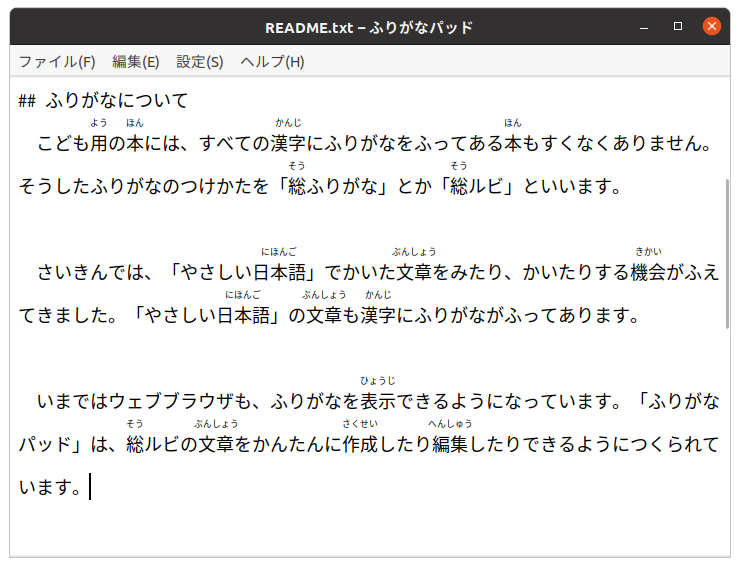
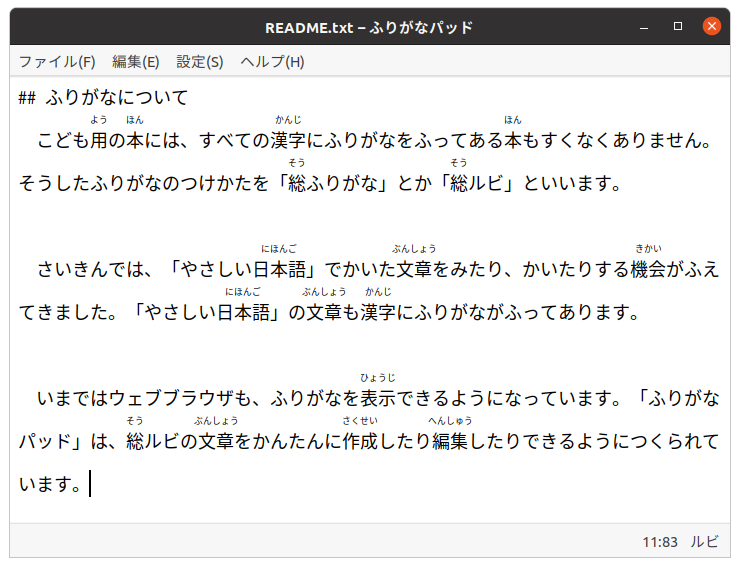
Update documents
docs/kids.png
docs/normal.png
docs/screenshot.mp4
docs/usage.html
docs/usage.md
screenshot.png

diff --git a/docs/usage.html b/docs/usage.html
@@ -70,37 +70,37 @@ thead tr th:first-child, tbody tr td:first-child {
 <tbody>
 <tr>
 <td>カーソルキー<br>[←], [↑], [↓], [→]</td>
-<td>カーソルをうごかします。[<ruby>Shift<rp>(</rp><rt>シフト</rt><rp>)</rp></ruby>]キーをおさえながらカーソルをうごかすと、テキストを<ruby>選択<rp>(</rp><rt>せんたく</rt><rp>)</rp></ruby>できます。</td>
+<td>&#x3000;カーソルをうごかします。<br>&#x3000;[<ruby>Shift<rp>(</rp><rt>シフト</rt><rp>)</rp></ruby>]キーをおさえながらカーソルキーをおすと、テキストを<ruby>選択<rp>(</rp><rt>せんたく</rt><rp>)</rp></ruby>できます。<br>&#x3000;[<ruby>Ctrl<rp>(</rp><rt>コントロール</rt><rp>)</rp></ruby>]キーをおさえながらカーソルキーをおすと、<ruby>単語<rp>(</rp><rt>たんご</rt><rp>)</rp></ruby><ruby>単位<rp>(</rp><rt>たんい</rt><rp>)</rp></ruby>でカーソルがうごきます。</td>
 </tr>
 <tr>
 <td>[<ruby>Backspace<rp>(</rp><rt>バックスペース</rt><rp>)</rp></ruby>]</td>
-<td><ruby>選択<rp>(</rp><rt>せんたく</rt><rp>)</rp></ruby>しているテキストがあるときは、その<ruby>部分<rp>(</rp><rt>ぶぶん</rt><rp>)</rp></ruby>を<ruby>削除<rp>(</rp><rt>さくじょ</rt><rp>)</rp></ruby>します。そうでなければ、カーソルの<ruby>直前<rp>(</rp><rt>ちょくぜん</rt><rp>)</rp></ruby>の<ruby>文字<rp>(</rp><rt>もじ</rt><rp>)</rp></ruby>を<ruby>削除<rp>(</rp><rt>さくじょ</rt><rp>)</rp></ruby>します。</td>
+<td>&#x3000;<ruby>選択<rp>(</rp><rt>せんたく</rt><rp>)</rp></ruby>しているテキストがあるときは、その<ruby>部分<rp>(</rp><rt>ぶぶん</rt><rp>)</rp></ruby>を<ruby>削除<rp>(</rp><rt>さくじょ</rt><rp>)</rp></ruby>します。そうでなければ、カーソルの<ruby>直前<rp>(</rp><rt>ちょくぜん</rt><rp>)</rp></ruby>の<ruby>文字<rp>(</rp><rt>もじ</rt><rp>)</rp></ruby>を<ruby>削除<rp>(</rp><rt>さくじょ</rt><rp>)</rp></ruby>します。</td>
 </tr>
 <tr>
 <td>[<ruby>Enter<rp>(</rp><rt>エンター</rt><rp>)</rp></ruby>]</td>
-<td>あたらしい<ruby>段落<rp>(</rp><rt>だんらく</rt><rp>)</rp></ruby>をつくります。</td>
+<td>&#x3000;あたらしい<ruby>段落<rp>(</rp><rt>だんらく</rt><rp>)</rp></ruby>をつくります。</td>
 </tr>
 <tr>
 <td>[<ruby>Home<rp>(</rp><rt>ホーム</rt><rp>)</rp></ruby>]</td>
-<td>カーソルを<ruby>段落<rp>(</rp><rt>だんらく</rt><rp>)</rp></ruby>のはじめに<ruby>移動<rp>(</rp><rt>いどう</rt><rp>)</rp></ruby>します。</td>
+<td>&#x3000;カーソルを<ruby>段落<rp>(</rp><rt>だんらく</rt><rp>)</rp></ruby>のはじめに<ruby>移動<rp>(</rp><rt>いどう</rt><rp>)</rp></ruby>します。<br>&#x3000;[<ruby>Ctrl<rp>(</rp><rt>コントロール</rt><rp>)</rp></ruby>]キーをおさえながら[<ruby>Home<rp>(</rp><rt>ホーム</rt><rp>)</rp></ruby>]キーをおすと、カーソルが<ruby>文頭<rp>(</rp><rt>ぶんとう</rt><rp>)</rp></ruby>に<ruby>移動<rp>(</rp><rt>いどう</rt><rp>)</rp></ruby>します。</td>
 </tr>
 <tr>
 <td>[<ruby>End<rp>(</rp><rt>エンド</rt><rp>)</rp></ruby>]</td>
-<td>カーソルを<ruby>段落<rp>(</rp><rt>だんらく</rt><rp>)</rp></ruby>のおわりに<ruby>移動<rp>(</rp><rt>いどう</rt><rp>)</rp></ruby>します。</td>
+<td>&#x3000;カーソルを<ruby>段落<rp>(</rp><rt>だんらく</rt><rp>)</rp></ruby>のおわりに<ruby>移動<rp>(</rp><rt>いどう</rt><rp>)</rp></ruby>します。<br>&#x3000;[<ruby>Ctrl<rp>(</rp><rt>コントロール</rt><rp>)</rp></ruby>]キーをおさえながら[<ruby>End<rp>(</rp><rt>エンド</rt><rp>)</rp></ruby>]キーをおすと、カーソルが<ruby>文末<rp>(</rp><rt>ぶんまつ</rt><rp>)</rp></ruby>に<ruby>移動<rp>(</rp><rt>いどう</rt><rp>)</rp></ruby>します。</td>
 </tr>
 <tr>
 <td>[<ruby>Page<rp>(</rp><rt>ページ</rt><rp>)</rp></ruby> <ruby>Up<rp>(</rp><rt>アップ</rt><rp>)</rp></ruby>]</td>
-<td><ruby>画面<rp>(</rp><rt>がめん</rt><rp>)</rp></ruby>を<ruby>上<rp>(</rp><rt>うえ</rt><rp>)</rp></ruby>にスクロールします。</td>
+<td>&#x3000;<ruby>画面<rp>(</rp><rt>がめん</rt><rp>)</rp></ruby>を<ruby>上<rp>(</rp><rt>うえ</rt><rp>)</rp></ruby>にスクロールします。</td>
 </tr>
 <tr>
 <td>[<ruby>Page<rp>(</rp><rt>ページ</rt><rp>)</rp></ruby> <ruby>Down<rp>(</rp><rt>ダウン</rt><rp>)</rp></ruby>]</td>
-<td><ruby>画面<rp>(</rp><rt>がめん</rt><rp>)</rp></ruby>を<ruby>下<rp>(</rp><rt>した</rt><rp>)</rp></ruby>にスクロールします。</td>
+<td>&#x3000;<ruby>画面<rp>(</rp><rt>がめん</rt><rp>)</rp></ruby>を<ruby>下<rp>(</rp><rt>した</rt><rp>)</rp></ruby>にスクロールします。</td>
 </tr>
 </tbody>
 </table>
 <h2><ruby>文章<rp>(</rp><rt>ぶんしょう</rt><rp>)</rp></ruby>の<ruby>保存<rp>(</rp><rt>ほぞん</rt><rp>)</rp></ruby>のしかた</h2>
 <p>&#x3000;かいた<ruby>文章<rp>(</rp><rt>ぶんしょう</rt><rp>)</rp></ruby>は、ファイルに<ruby>保存<rp>(</rp><rt>ほぞん</rt><rp>)</rp></ruby>しておかないと、なくなってしまいます。<ruby>文章<rp>(</rp><rt>ぶんしょう</rt><rp>)</rp></ruby>を<ruby>保存<rp>(</rp><rt>ほぞん</rt><rp>)</rp></ruby>するときは、まず、[ファイル]メニューをクリックします。そうすると、プルダウン メニューがひらきます。そのなかから[<ruby>保存<rp>(</rp><rt>ほぞん</rt><rp>)</rp></ruby>]をクリックすると、<ruby>文章<rp>(</rp><rt>ぶんしょう</rt><rp>)</rp></ruby>を<ruby>保存<rp>(</rp><rt>ほぞん</rt><rp>)</rp></ruby>できます。</p>
-<p>&#x3000;おもなメニュー<ruby>項目<rp>(</rp><rt>こうもく</rt><rp>)</rp></ruby>はキーボード ショートカットをつかって<ruby>実行<rp>(</rp><rt>じっこう</rt><rp>)</rp></ruby>することもできます。たとえば、[<ruby>保存<rp>(</rp><rt>ほぞん</rt><rp>)</rp></ruby>]は、[Ctrl]キーをおさえながら、[S]をおすと<ruby>実行<rp>(</rp><rt>じっこう</rt><rp>)</rp></ruby>できます。Sは<ruby>英語<rp>(</rp><rt>えいご</rt><rp>)</rp></ruby>の"<ruby>Save<rp>(</rp><rt>セーブ</rt><rp>)</rp></ruby>"の<ruby>頭<rp>(</rp><rt>かしら</rt><rp>)</rp></ruby><ruby>文字<rp>(</rp><rt>もじ</rt><rp>)</rp></ruby>からきています。キーボード ショートカットはプルダウン メニューのなかにかかれています。</p>
+<p>&#x3000;おもなメニュー<ruby>項目<rp>(</rp><rt>こうもく</rt><rp>)</rp></ruby>はキーボード ショートカットをつかって<ruby>実行<rp>(</rp><rt>じっこう</rt><rp>)</rp></ruby>することもできます。たとえば、[<ruby>保存<rp>(</rp><rt>ほぞん</rt><rp>)</rp></ruby>]は、[<ruby>Ctrl<rp>(</rp><rt>コントロール</rt><rp>)</rp></ruby>]キーをおさえながら、[S]をおすと<ruby>実行<rp>(</rp><rt>じっこう</rt><rp>)</rp></ruby>できます。Sは<ruby>英語<rp>(</rp><rt>えいご</rt><rp>)</rp></ruby>の"<ruby>Save<rp>(</rp><rt>セーブ</rt><rp>)</rp></ruby>"の<ruby>頭<rp>(</rp><rt>かしら</rt><rp>)</rp></ruby><ruby>文字<rp>(</rp><rt>もじ</rt><rp>)</rp></ruby>からきています。キーボード ショートカットはプルダウン メニューのなかにかかれています。</p>
 <h2>ファイル メニュー</h2>
 <table>
 <thead>
@@ -112,27 +112,27 @@ thead tr th:first-child, tbody tr td:first-child {
 <tbody>
 <tr>
 <td><ruby>新<rp>(</rp><rt>あたら</rt><rp>)</rp></ruby>しいウィンドウ<br><b>[Ctrl]+[N]</b></td>
-<td>あたらしい<ruby>文章<rp>(</rp><rt>ぶんしょう</rt><rp>)</rp></ruby>をかくためのウィンドウをひらきます。</td>
+<td>&#x3000;あたらしい<ruby>文章<rp>(</rp><rt>ぶんしょう</rt><rp>)</rp></ruby>をかくためのウィンドウをひらきます。</td>
 </tr>
 <tr>
 <td><ruby>開<rp>(</rp><rt>ひら</rt><rp>)</rp></ruby>く...<br><b>[Ctrl]+[O]</b></td>
-<td>ファイルをひらきます。</td>
+<td>&#x3000;ファイルをひらきます。</td>
 </tr>
 <tr>
 <td><ruby>保存<rp>(</rp><rt>ほぞん</rt><rp>)</rp></ruby><br><b>[Ctrl]+[S]</b></td>
-<td><ruby>文章<rp>(</rp><rt>ぶんしょう</rt><rp>)</rp></ruby>を<ruby>保存<rp>(</rp><rt>ほぞん</rt><rp>)</rp></ruby>します。あたらしい<ruby>文章<rp>(</rp><rt>ぶんしょう</rt><rp>)</rp></ruby>を<ruby>保存<rp>(</rp><rt>ほぞん</rt><rp>)</rp></ruby>するときは、ファイル<ruby>名<rp>(</rp><rt>めい</rt><rp>)</rp></ruby>を<ruby>指定<rp>(</rp><rt>してい</rt><rp>)</rp></ruby>してから<ruby>保存<rp>(</rp><rt>ほぞん</rt><rp>)</rp></ruby>します。</td>
+<td>&#x3000;<ruby>文章<rp>(</rp><rt>ぶんしょう</rt><rp>)</rp></ruby>を<ruby>保存<rp>(</rp><rt>ほぞん</rt><rp>)</rp></ruby>します。あたらしい<ruby>文章<rp>(</rp><rt>ぶんしょう</rt><rp>)</rp></ruby>を<ruby>保存<rp>(</rp><rt>ほぞん</rt><rp>)</rp></ruby>するときは、ファイル<ruby>名<rp>(</rp><rt>めい</rt><rp>)</rp></ruby>を<ruby>指定<rp>(</rp><rt>してい</rt><rp>)</rp></ruby>してから<ruby>保存<rp>(</rp><rt>ほぞん</rt><rp>)</rp></ruby>します。</td>
 </tr>
 <tr>
 <td><ruby>名前<rp>(</rp><rt>なまえ</rt><rp>)</rp></ruby>をつけて<ruby>保存<rp>(</rp><rt>ほぞん</rt><rp>)</rp></ruby>...</td>
-<td><ruby>文章<rp>(</rp><rt>ぶんしょう</rt><rp>)</rp></ruby>をべつのファイルに<ruby>保存<rp>(</rp><rt>ほぞん</rt><rp>)</rp></ruby>します。</td>
+<td>&#x3000;<ruby>文章<rp>(</rp><rt>ぶんしょう</rt><rp>)</rp></ruby>をべつのファイルに<ruby>保存<rp>(</rp><rt>ほぞん</rt><rp>)</rp></ruby>します。</td>
 </tr>
 <tr>
 <td><ruby>閉<rp>(</rp><rt>と</rt><rp>)</rp></ruby>じる<br><b>[Ctrl]+[W]</b></td>
-<td>ファイルをとじます。<ruby>文章<rp>(</rp><rt>ぶんしょう</rt><rp>)</rp></ruby>を<ruby>変更<rp>(</rp><rt>へんこう</rt><rp>)</rp></ruby>していたときは、ファイルを<ruby>保存<rp>(</rp><rt>ほぞん</rt><rp>)</rp></ruby>しなくてもだいじょうぶか<ruby>確認<rp>(</rp><rt>かくにん</rt><rp>)</rp></ruby>をもとめられます。</td>
+<td>&#x3000;ファイルをとじます。<ruby>文章<rp>(</rp><rt>ぶんしょう</rt><rp>)</rp></ruby>を<ruby>変更<rp>(</rp><rt>へんこう</rt><rp>)</rp></ruby>していたときは、ファイルを<ruby>保存<rp>(</rp><rt>ほぞん</rt><rp>)</rp></ruby>しなくてもだいじょうぶか<ruby>確認<rp>(</rp><rt>かくにん</rt><rp>)</rp></ruby>をもとめられます。</td>
 </tr>
 <tr>
 <td>すべて<ruby>閉<rp>(</rp><rt>と</rt><rp>)</rp></ruby>じる</td>
-<td>ファイルをすべてとじます。<ruby>変更<rp>(</rp><rt>へんこう</rt><rp>)</rp></ruby>されている<ruby>文章<rp>(</rp><rt>ぶんしょう</rt><rp>)</rp></ruby>があれば、それぞれ<ruby>保存<rp>(</rp><rt>ほぞん</rt><rp>)</rp></ruby>しなくてもだいじょうぶか<ruby>確認<rp>(</rp><rt>かくにん</rt><rp>)</rp></ruby>をもとめられます。</td>
+<td>&#x3000;ファイルをすべてとじます。<ruby>変更<rp>(</rp><rt>へんこう</rt><rp>)</rp></ruby>されている<ruby>文章<rp>(</rp><rt>ぶんしょう</rt><rp>)</rp></ruby>があれば、それぞれ<ruby>保存<rp>(</rp><rt>ほぞん</rt><rp>)</rp></ruby>しなくてもだいじょうぶか<ruby>確認<rp>(</rp><rt>かくにん</rt><rp>)</rp></ruby>をもとめられます。</td>
 </tr>
 </tbody>
 </table>
@@ -149,27 +149,27 @@ thead tr th:first-child, tbody tr td:first-child {
 <tbody>
 <tr>
 <td><ruby>元<rp>(</rp><rt>もと</rt><rp>)</rp></ruby>に<ruby>戻<rp>(</rp><rt>もど</rt><rp>)</rp></ruby>す<br><b>[Ctrl]+[Z]</b></td>
-<td>まちがえた<ruby>操作<rp>(</rp><rt>そうさ</rt><rp>)</rp></ruby>をとりけして、もとにもどします。</td>
+<td>&#x3000;まちがえた<ruby>操作<rp>(</rp><rt>そうさ</rt><rp>)</rp></ruby>をとりけして、もとにもどします。</td>
 </tr>
 <tr>
 <td>やり<ruby>直<rp>(</rp><rt>なお</rt><rp>)</rp></ruby>す<br><b>[Ctrl]+[Shift]+[Z]</b></td>
-<td>いちどとりけした<ruby>操作<rp>(</rp><rt>そうさ</rt><rp>)</rp></ruby>をやりなおします。</td>
+<td>&#x3000;いちどとりけした<ruby>操作<rp>(</rp><rt>そうさ</rt><rp>)</rp></ruby>をやりなおします。</td>
 </tr>
 <tr>
 <td><ruby>切<rp>(</rp><rt>き</rt><rp>)</rp></ruby>り<ruby>取<rp>(</rp><rt>と</rt><rp>)</rp></ruby>り<br><b>[Ctrl]+[X]</b></td>
-<td><ruby>選択<rp>(</rp><rt>せんたく</rt><rp>)</rp></ruby>したテキストをきりとって、クリップボードにいれます。</td>
+<td>&#x3000;<ruby>選択<rp>(</rp><rt>せんたく</rt><rp>)</rp></ruby>したテキストをきりとって、クリップボードにいれます。</td>
 </tr>
 <tr>
 <td>コピー<br><b>[Ctrl]+[C]</b></td>
-<td><ruby>選択<rp>(</rp><rt>せんたく</rt><rp>)</rp></ruby>したテキストをコピーして、クリップボードにいれます。</td>
+<td>&#x3000;<ruby>選択<rp>(</rp><rt>せんたく</rt><rp>)</rp></ruby>したテキストをコピーして、クリップボードにいれます。</td>
 </tr>
 <tr>
 <td><ruby>貼<rp>(</rp><rt>は</rt><rp>)</rp></ruby>り<ruby>付<rp>(</rp><rt>つ</rt><rp>)</rp></ruby>け<br><b>[Ctrl]+[V]</b></td>
-<td>クリップボードにいれたテキストを<ruby>本文<rp>(</rp><rt>ほんぶん</rt><rp>)</rp></ruby>にはりつけます。</td>
+<td>&#x3000;クリップボードにいれたテキストを<ruby>本文<rp>(</rp><rt>ほんぶん</rt><rp>)</rp></ruby>にはりつけます。</td>
 </tr>
 <tr>
 <td>すべて<ruby>選択<rp>(</rp><rt>せんたく</rt><rp>)</rp></ruby><br><b>[Ctrl]+[A]</b></td>
-<td><ruby>文章<rp>(</rp><rt>ぶんしょう</rt><rp>)</rp></ruby><ruby>全体<rp>(</rp><rt>ぜんたい</rt><rp>)</rp></ruby>を<ruby>選択<rp>(</rp><rt>せんたく</rt><rp>)</rp></ruby>します。</td>
+<td>&#x3000;<ruby>文章<rp>(</rp><rt>ぶんしょう</rt><rp>)</rp></ruby><ruby>全体<rp>(</rp><rt>ぜんたい</rt><rp>)</rp></ruby>を<ruby>選択<rp>(</rp><rt>せんたく</rt><rp>)</rp></ruby>します。</td>
 </tr>
 <tr>
 <td><ruby>検索<rp>(</rp><rt>けんさく</rt><rp>)</rp></ruby>...<br><b>[Ctrl]+[F]</b></td>
@@ -210,6 +210,10 @@ thead tr th:first-child, tbody tr td:first-child {
 <td><ruby>長<rp>(</rp><rt>なが</rt><rp>)</rp></ruby>い<ruby>文<rp>(</rp><rt>ぶん</rt><rp>)</rp></ruby>をめだたせる</td>
 <td>&#x3000;チェックをつけておくと、ながい<ruby>文<rp>(</rp><rt>ぶん</rt><rp>)</rp></ruby>を<ruby>色<rp>(</rp><rt>いろ</rt><rp>)</rp></ruby>づけして<ruby>表示<rp>(</rp><rt>ひょうじ</rt><rp>)</rp></ruby>します。一<ruby>文<rp>(</rp><rt>ぶん</rt><rp>)</rp></ruby>のながさが50<ruby>字<rp>(</rp><rt>じ</rt><rp>)</rp></ruby>をこえると、<ruby>文<rp>(</rp><rt>ぶん</rt><rp>)</rp></ruby>の<ruby>背景<rp>(</rp><rt>はいけい</rt><rp>)</rp></ruby>が<ruby>黄<rp>(</rp><rt>き</rt><rp>)</rp></ruby><ruby>色<rp>(</rp><rt>いろ</rt><rp>)</rp></ruby>になります。さらに、60<ruby>字<rp>(</rp><rt>じ</rt><rp>)</rp></ruby>をこえると、<ruby>文<rp>(</rp><rt>ぶん</rt><rp>)</rp></ruby>の<ruby>背景<rp>(</rp><rt>はいけい</rt><rp>)</rp></ruby>が<ruby>赤色<rp>(</rp><rt> あかいろ</rt><rp>)</rp></ruby>になります。<br>&#x3000;ながい<ruby>文<rp>(</rp><rt>ぶん</rt><rp>)</rp></ruby>はみじかくきって、かきなおすと、よみやすくなります。<ruby>背景<rp>(</rp><rt>はいけい</rt><rp>)</rp></ruby>が<ruby>赤色<rp>(</rp><rt> あかいろ</rt><rp>)</rp></ruby>になっている<ruby>文<rp>(</rp><rt>ぶん</rt><rp>)</rp></ruby>は、ふたつの<ruby>文<rp>(</rp><rt>ぶん</rt><rp>)</rp></ruby>にわけたりできないか、かんがえてみてください。</td>
 </tr>
+<tr>
+<td>ステータスバー</td>
+<td>&#x3000;チェックをつけておくと、ウィンドウのしたの<ruby>部分<rp>(</rp><rt>ぶぶん</rt><rp>)</rp></ruby>にステータスバーを<ruby>表示<rp>(</rp><rt>ひょうじ</rt><rp>)</rp></ruby>します。</td>
+</tr>
 </tbody>
 </table>
 <h2>ヘルプ メニュー</h2>
@@ -223,11 +227,11 @@ thead tr th:first-child, tbody tr td:first-child {
 <tbody>
 <tr>
 <td>ヘルプ<br><b>[F1]</b></td>
-<td>ウェブブラウザーで「ふりがなパッド」の<ruby>手<rp>(</rp><rt>て</rt><rp>)</rp></ruby>びきのページを<ruby>表示<rp>(</rp><rt>ひょうじ</rt><rp>)</rp></ruby>します。</td>
+<td>&#x3000;ウェブブラウザーで「ふりがなパッド」の<ruby>手<rp>(</rp><rt>て</rt><rp>)</rp></ruby>びきのページを<ruby>表示<rp>(</rp><rt>ひょうじ</rt><rp>)</rp></ruby>します。</td>
 </tr>
 <tr>
 <td>ふりがなパッドについて</td>
-<td>「ふりがなパッド」のバージョン<ruby>情報<rp>(</rp><rt>じょうほう</rt><rp>)</rp></ruby>などを<ruby>表示<rp>(</rp><rt>ひょうじ</rt><rp>)</rp></ruby>します。</td>
+<td>&#x3000;「ふりがなパッド」のバージョン<ruby>情報<rp>(</rp><rt>じょうほう</rt><rp>)</rp></ruby>などを<ruby>表示<rp>(</rp><rt>ひょうじ</rt><rp>)</rp></ruby>します。</td>
 </tr>
 </tbody>
 </table>

diff --git a/docs/usage.md b/docs/usage.md
@@ -27,13 +27,13 @@ $ furiganapad [ファイル名...]
 
 キー | 内容ないよう
 ---|---
-カーソルキー<br>[←], [↑], [↓], [→] | カーソルをうごかします。[Shiftシフト]キーをおさえながらカーソルをうごかすと、テキストを選択せんたくできます。
-[Backspaceバックスペース] | 選択せんたくしているテキストがあるときは、その部分ぶぶんを削除さくじょします。そうでなければ、カーソルの直前ちょくぜんの文字もじを削除さくじょします。
-[Enterエンター] | あたらしい段落だんらくをつくります。
-[Homeホーム] | カーソルを段落だんらくのはじめに移動いどうします。
-[Endエンド] | カーソルを段落だんらくのおわりに移動いどうします。
-[Pageページ Upアップ] | 画面がめんを上うえにスクロールします。
-[Pageページ Downダウン] | 画面がめんを下したにスクロールします。
+カーソルキー<br>[←], [↑], [↓], [→] | 　カーソルをうごかします。<br>　[Shiftシフト]キーをおさえながらカーソルキーをおすと、テキストを選択せんたくできます。<br>　[Ctrlコントロール]キーをおさえながらカーソルキーをおすと、単語たんご単位たんいでカーソルがうごきます。
+[Backspaceバックスペース] | 　選択せんたくしているテキストがあるときは、その部分ぶぶんを削除さくじょします。そうでなければ、カーソルの直前ちょくぜんの文字もじを削除さくじょします。
+[Enterエンター] | 　あたらしい段落だんらくをつくります。
+[Homeホーム] | 　カーソルを段落だんらくのはじめに移動いどうします。<br>　[Ctrlコントロール]キーをおさえながら[Homeホーム]キーをおすと、カーソルが文頭ぶんとうに移動いどうします。
+[Endエンド] | 　カーソルを段落だんらくのおわりに移動いどうします。<br>　[Ctrlコントロール]キーをおさえながら[Endエンド]キーをおすと、カーソルが文末ぶんまつに移動いどうします。
+[Pageページ Upアップ] | 　画面がめんを上うえにスクロールします。
+[Pageページ Downダウン] | 　画面がめんを下したにスクロールします。
 
 ## 文章ぶんしょうの保存ほぞんのしかた
 
@@ -41,19 +41,19 @@ $ furiganapad [ファイル名...]
 そうすると、プルダウン メニューがひらきます。
 そのなかから[保存ほぞん]をクリックすると、文章ぶんしょうを保存ほぞんできます。
 　おもなメニュー項目こうもくはキーボード ショートカットをつかって実行じっこうすることもできます。
-たとえば、[保存ほぞん]は、[Ctrl]キーをおさえながら、[S]をおすと実行じっこうできます。Sは英語えいごの"Saveセーブ"の頭かしら文字もじからきています。
+たとえば、[保存ほぞん]は、[Ctrlコントロール]キーをおさえながら、[S]をおすと実行じっこうできます。Sは英語えいごの"Saveセーブ"の頭かしら文字もじからきています。
 キーボード ショートカットはプルダウン メニューのなかにかかれています。
 
 ## ファイル メニュー
 
 メニュー項目こうもく | 内容ないよう
 ---|---
-新あたらしいウィンドウ<br><b>[Ctrl]+[N]</b> | あたらしい文章ぶんしょうをかくためのウィンドウをひらきます。
-開ひらく...<br><b>[Ctrl]+[O]</b> | ファイルをひらきます。
-保存ほぞん<br><b>[Ctrl]+[S]</b> | 文章ぶんしょうを保存ほぞんします。あたらしい文章ぶんしょうを保存ほぞんするときは、ファイル名めいを指定していしてから保存ほぞんします。
-名前なまえをつけて保存ほぞん... | 文章ぶんしょうをべつのファイルに保存ほぞんします。
-閉とじる<br><b>[Ctrl]+[W]</b> | ファイルをとじます。文章ぶんしょうを変更へんこうしていたときは、ファイルを保存ほぞんしなくてもだいじょうぶか確認かくにんをもとめられます。
-すべて閉とじる | ファイルをすべてとじます。変更へんこうされている文章ぶんしょうがあれば、それぞれ保存ほぞんしなくてもだいじょうぶか確認かくにんをもとめられます。
+新あたらしいウィンドウ<br><b>[Ctrl]+[N]</b> | 　あたらしい文章ぶんしょうをかくためのウィンドウをひらきます。
+開ひらく...<br><b>[Ctrl]+[O]</b> | 　ファイルをひらきます。
+保存ほぞん<br><b>[Ctrl]+[S]</b> | 　文章ぶんしょうを保存ほぞんします。あたらしい文章ぶんしょうを保存ほぞんするときは、ファイル名めいを指定していしてから保存ほぞんします。
+名前なまえをつけて保存ほぞん... | 　文章ぶんしょうをべつのファイルに保存ほぞんします。
+閉とじる<br><b>[Ctrl]+[W]</b> | 　ファイルをとじます。文章ぶんしょうを変更へんこうしていたときは、ファイルを保存ほぞんしなくてもだいじょうぶか確認かくにんをもとめられます。
+すべて閉とじる | 　ファイルをすべてとじます。変更へんこうされている文章ぶんしょうがあれば、それぞれ保存ほぞんしなくてもだいじょうぶか確認かくにんをもとめられます。
 
 ## 編集へんしゅうメニュー
 
@@ -63,12 +63,12 @@ $ furiganapad [ファイル名...]
 
 メニュー項目こうもく | 内容ないよう
 ---|---
-元もとに戻もどす<br><b>[Ctrl]+[Z]</b> | まちがえた操作そうさをとりけして、もとにもどします。
-やり直なおす<br><b>[Ctrl]+[Shift]+[Z]</b> | いちどとりけした操作そうさをやりなおします。
-切きり取とり<br><b>[Ctrl]+[X]</b> | 選択せんたくしたテキストをきりとって、クリップボードにいれます。
-コピー<br><b>[Ctrl]+[C]</b> | 選択せんたくしたテキストをコピーして、クリップボードにいれます。
-貼はり付つけ<br><b>[Ctrl]+[V]</b> | クリップボードにいれたテキストを本文ほんぶんにはりつけます。
-すべて選択せんたく<br><b>[Ctrl]+[A]</b> | 文章ぶんしょう全体ぜんたいを選択せんたくします。
+元もとに戻もどす<br><b>[Ctrl]+[Z]</b> | 　まちがえた操作そうさをとりけして、もとにもどします。
+やり直なおす<br><b>[Ctrl]+[Shift]+[Z]</b> | 　いちどとりけした操作そうさをやりなおします。
+切きり取とり<br><b>[Ctrl]+[X]</b> | 　選択せんたくしたテキストをきりとって、クリップボードにいれます。
+コピー<br><b>[Ctrl]+[C]</b> | 　選択せんたくしたテキストをコピーして、クリップボードにいれます。
+貼はり付つけ<br><b>[Ctrl]+[V]</b> | 　クリップボードにいれたテキストを本文ほんぶんにはりつけます。
+すべて選択せんたく<br><b>[Ctrl]+[A]</b> | 　文章ぶんしょう全体ぜんたいを選択せんたくします。
 検索けんさく...<br><b>[Ctrl]+[F]</b> | 　ウィンドウのしたがわにテキストボックスが表示ひょうじされます。テキストボックスに字句じくを入力にゅうりょくして、[Enterエンター]キーをおすと、文章ぶんしょうのなかからその字句じくをさがします。<br>　[Escエスケープ]キーをおすと、テキストボックスをとじられます。
 置換ちかん...<br><b>[Ctrl]+[H]</b> | 　ウィンドウのしたがわに、ふたつテキストボックスが表示ひょうじされます。うえのテキストボックスには、さがしたい字句じくを入力にゅうりょくします。したのテキストボックスには、おきかえる字句じくを入力にゅうりょくします。[Enterエンター]キーをおすと、さがしたい字句じくがあれば、その字句じくが選択せんたくされます。そこで、もういちど[Enterエンター]キーをおすと、字句じくをおきかえられます。<br>　[Escエスケープ]キーをおすと、テキストボックスをとじられます。
 ルビをふる...<br><b>[Ctrl]+[B]</b> | 　まずルビをふりたい字句じくを選択せんたくしておきます。このコマンドを実行じっこうすると、ウィンドウのしたがわにテキストボックスが表示ひょうじされます。ルビを入力にゅうりょくして、[Enterエンター]キーをおすと、選択せんたくしたテキストにルビがふられます。<br>　[Escエスケープ]キーをおすと、テキストボックスをとじられます。
@@ -81,11 +81,12 @@ $ furiganapad [ファイル名...]
 フォントを変かえる | 　文章ぶんしょうの表示ひょうじにつかうフォントをえらびます。
 ルビをふる<br><b>[Ctrl]+[R]</b> | 　チェックをつけておくと、変換へんかんした漢字かんじに自動的じどうてきにルビがふられます。<br>※ 「ひらがなIME」を使用しようしているときにだけ有効ゆうこうな機能きのうです。
 長ながい文ぶんをめだたせる | 　チェックをつけておくと、ながい文ぶんを色いろづけして表示ひょうじします。一文ぶんのながさが50字じをこえると、文ぶんの背景はいけいが黄き色いろになります。さらに、60字じをこえると、文ぶんの背景はいけいが赤色 あかいろになります。<br>　ながい文ぶんはみじかくきって、かきなおすと、よみやすくなります。背景はいけいが赤色 あかいろになっている文ぶんは、ふたつの文ぶんにわけたりできないか、かんがえてみてください。
+ステータスバー | 　チェックをつけておくと、ウィンドウのしたの部分ぶぶんにステータスバーを表示ひょうじします。
 
 ## ヘルプ メニュー
 
 メニュー項目こうもく | 内容ないよう
 ---|---
-ヘルプ<br><b>[F1]</b> | ウェブブラウザーで「ふりがなパッド」の手てびきのページを表示ひょうじします。
-ふりがなパッドについて | 「ふりがなパッド」のバージョン情報じょうほうなどを表示ひょうじします。
+ヘルプ<br><b>[F1]</b> | 　ウェブブラウザーで「ふりがなパッド」の手てびきのページを表示ひょうじします。
+ふりがなパッドについて | 　「ふりがなパッド」のバージョン情報じょうほうなどを表示ひょうじします。
 
